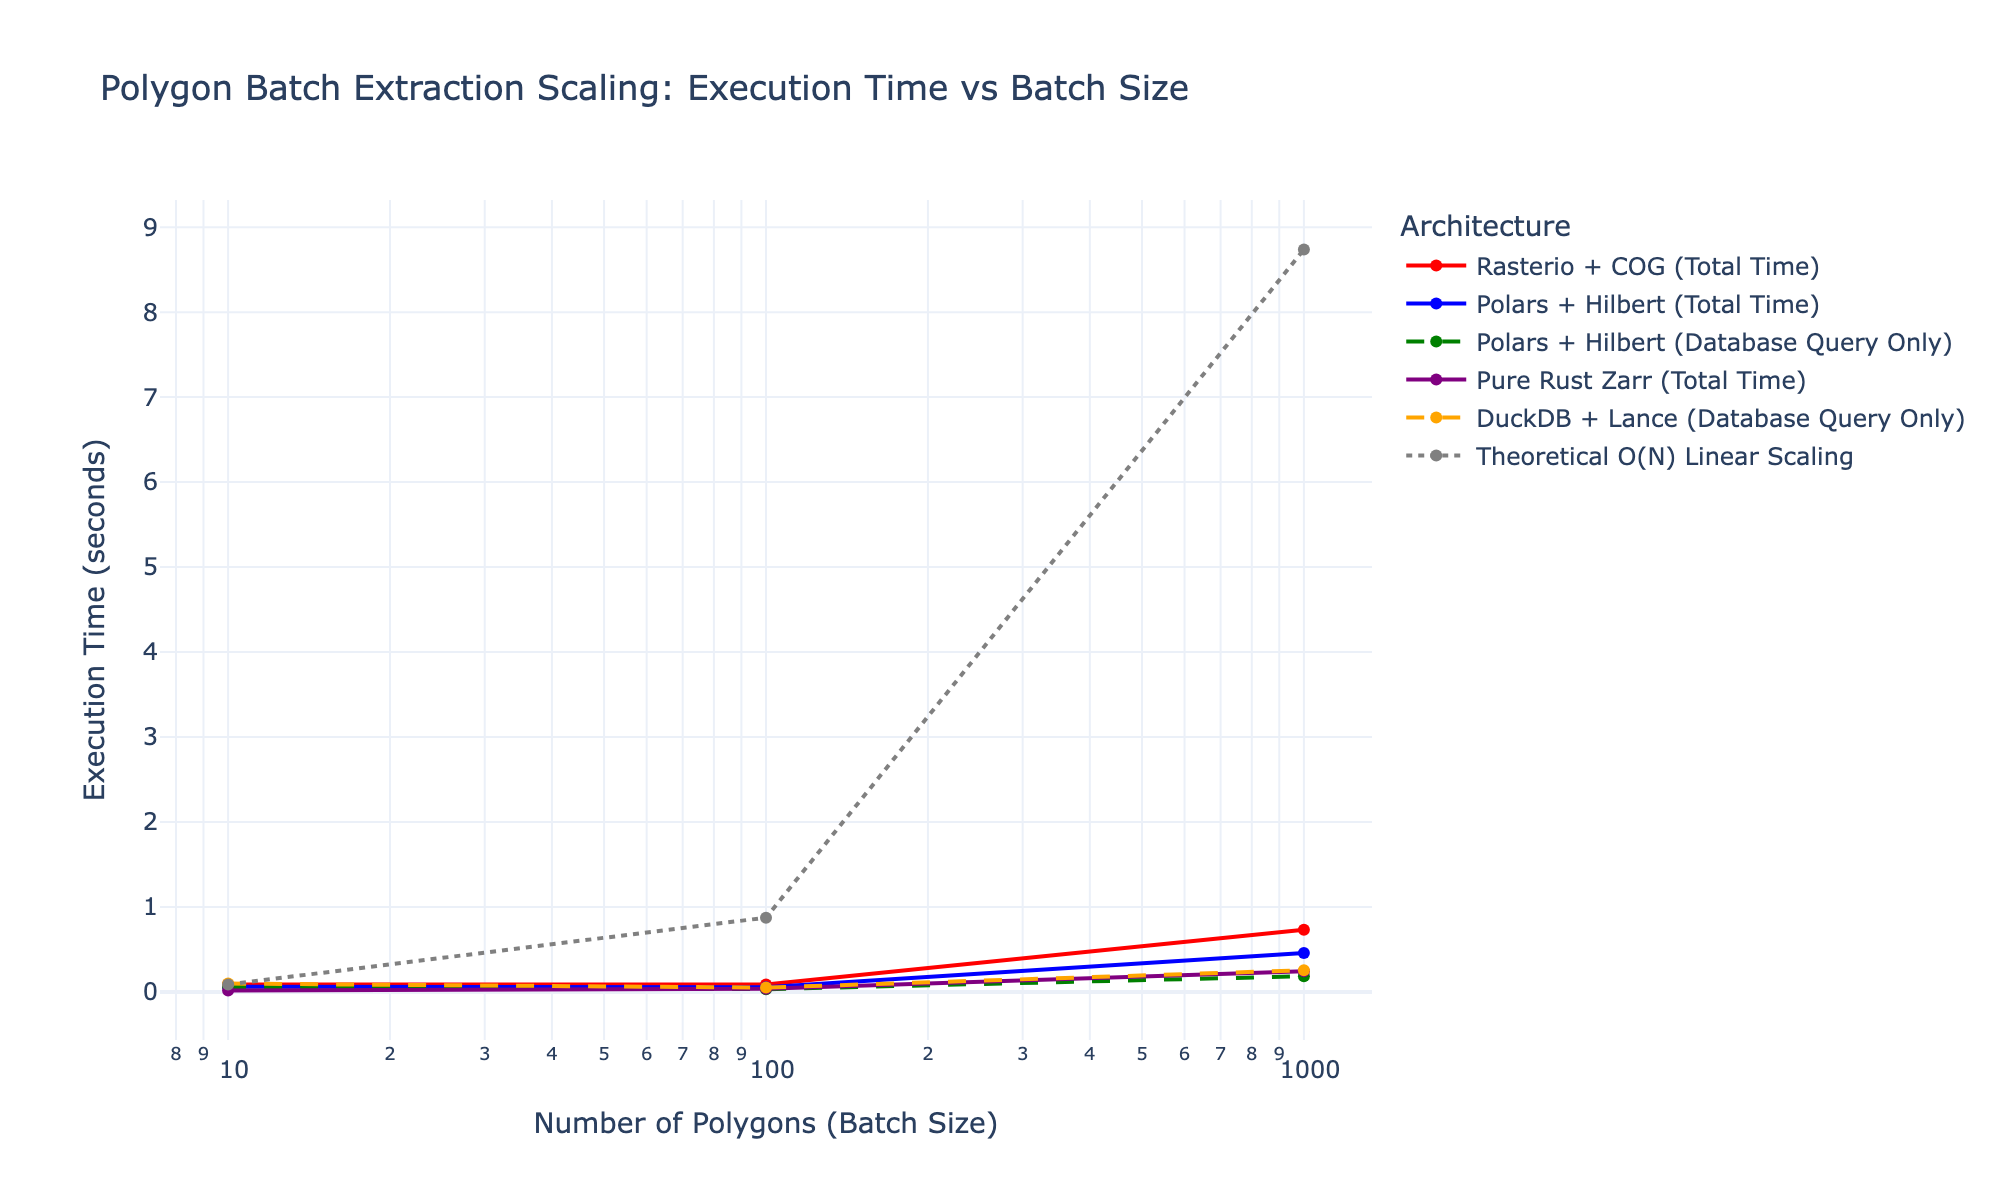
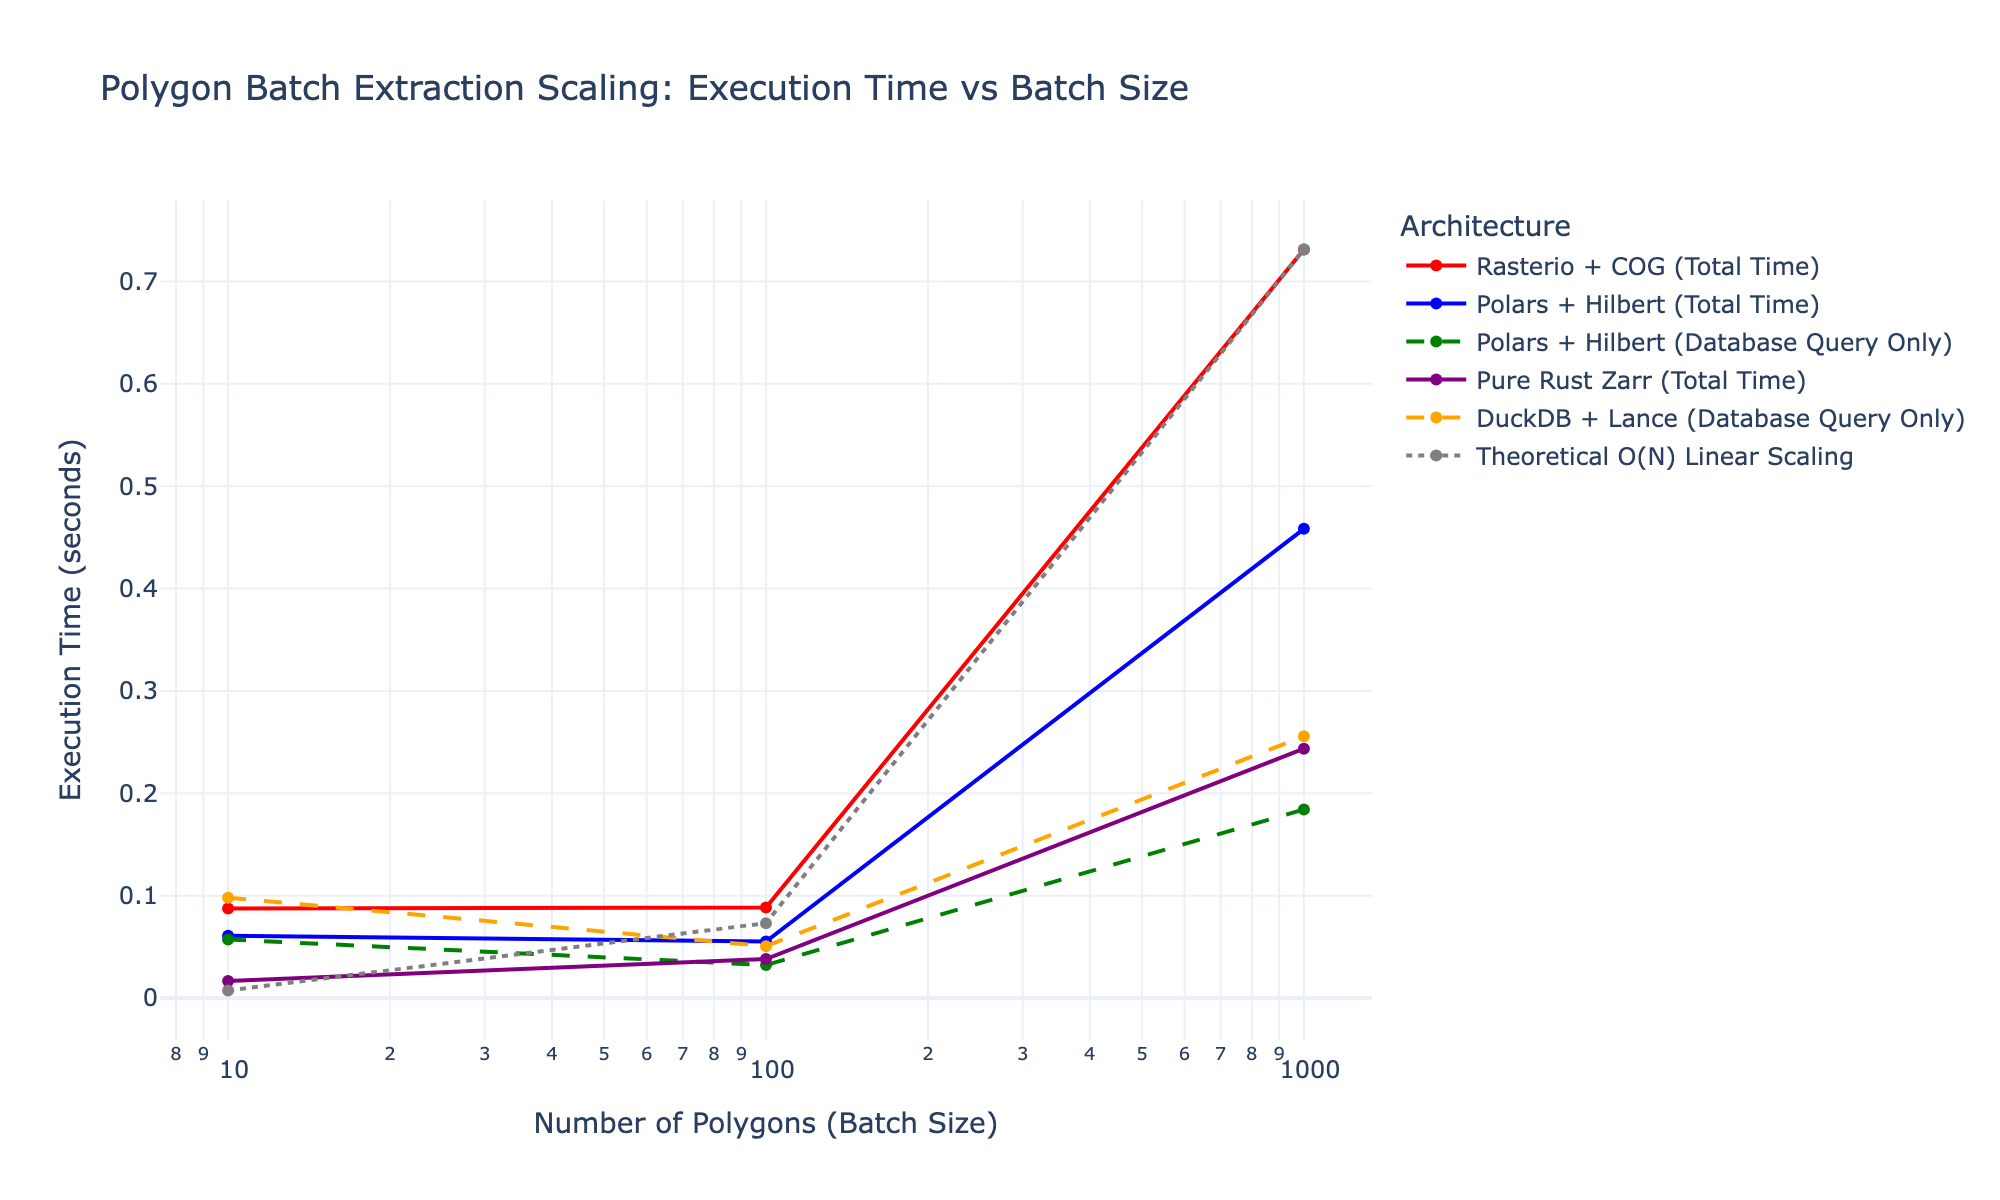
fix: anchor theoretical O(N) line to N=1000 to account for ThreadPool overhead in small batches

diff --git a/dem-format-benchmark/scripts/visualize.py b/dem-format-benchmark/scripts/visualize.py
@@ -194,11 +194,11 @@ def plot_scaling_assessment() -> None:
     # Restructure data to show Query Time vs Total Time explicitly
     plot_data = []
     
-    # Calculate O(N) baseline from Rasterio at N=10
-    rasterio_10 = df[(df["tool"] == "Rasterio + COG") & (df["batch_size"] == 10)]
+    # Calculate O(N) baseline from Rasterio at N=1000 (where thread overhead is amortised)
+    rasterio_1000 = df[(df["tool"] == "Rasterio + COG") & (df["batch_size"] == 1000)]
     baseline_time_per_poly = 0
-    if not rasterio_10.empty:
-        baseline_time_per_poly = rasterio_10.iloc[0]["total_time_s"] / 10.0
+    if not rasterio_1000.empty:
+        baseline_time_per_poly = rasterio_1000.iloc[0]["total_time_s"] / 1000.0
 
     for _, row in df.iterrows():
         if "Rasterio" in row["tool"]:
